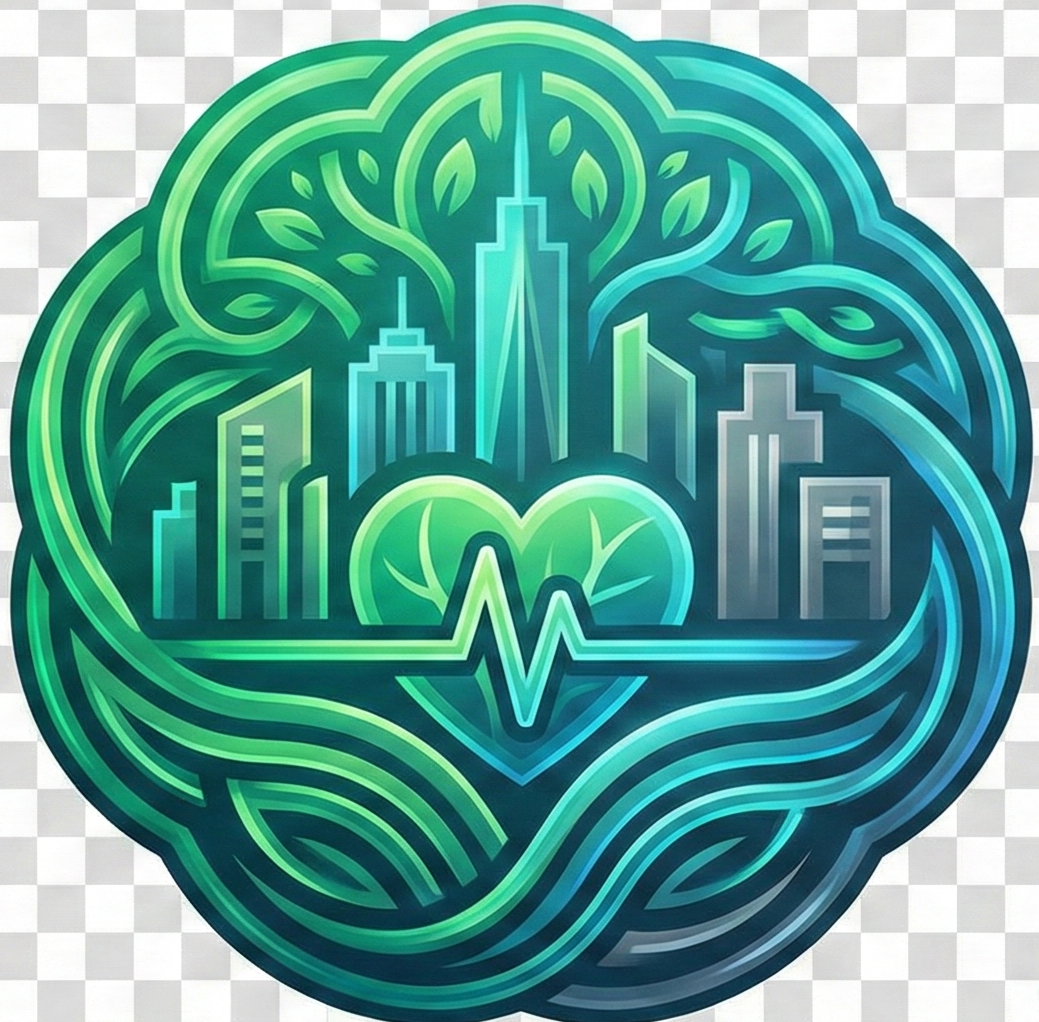
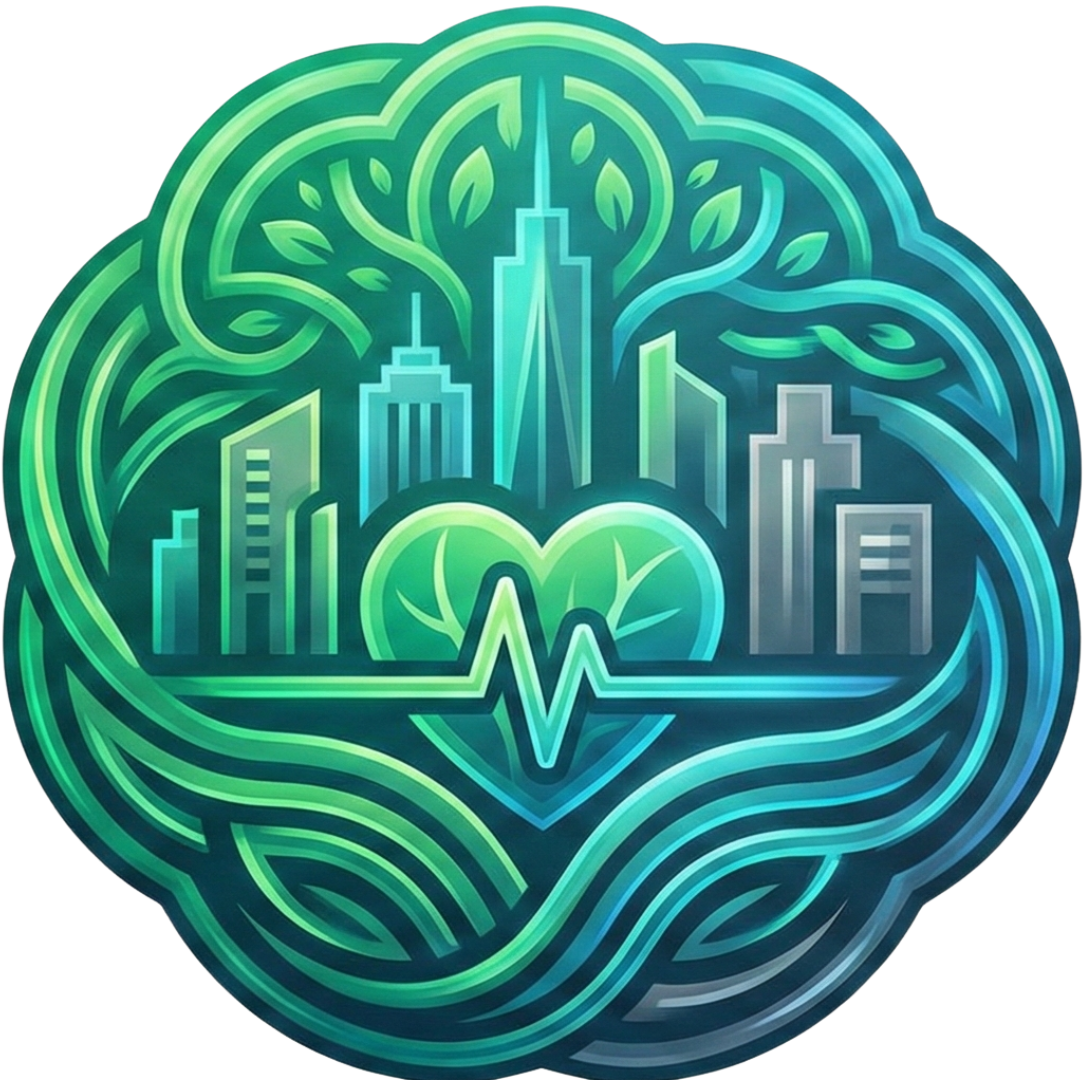
Improvements

diff --git a/frontend/index.html b/frontend/index.html
@@ -2,21 +2,19 @@
 <html lang="en">
   <head>
     <meta charset="UTF-8" />
+    <link rel="icon" type="image/png" href="/image.png" />
     <meta name="viewport" content="width=device-width, initial-scale=1.0" />
-    <!-- TODO: Set the document title to the name of your application -->
-    <title>Lovable App</title>
-    <meta name="description" content="Lovable Generated Project" />
-    <meta name="author" content="Lovable" />
+    <title>UCHI - Urban Canopy Health Index</title>
+    <meta name="description" content="Dynamic Urban Canopy Health Index - Vegetation Health Monitoring Platform" />
+    <meta name="author" content="UCHI Team" />
 
-    <!-- TODO: Update og:title to match your application name -->
-    <meta property="og:title" content="Lovable App" />
-    <meta property="og:description" content="Lovable Generated Project" />
+    <meta property="og:title" content="UCHI - Urban Canopy Health Index" />
+    <meta property="og:description" content="Analyzing vegetation health in urban areas using satellite imagery" />
     <meta property="og:type" content="website" />
-    <meta property="og:image" content="https://lovable.dev/opengraph-image-p98pqg.png" />
+    <meta property="og:image" content="/image.png" />
 
     <meta name="twitter:card" content="summary_large_image" />
-    <meta name="twitter:site" content="@Lovable" />
-    <meta name="twitter:image" content="https://lovable.dev/opengraph-image-p98pqg.png" />
+    <meta name="twitter:image" content="/image.png" />
   </head>
 
   <body>

diff --git a/frontend/src/components/layout/Header.tsx b/frontend/src/components/layout/Header.tsx
@@ -1,5 +1,5 @@
 import { Link, useLocation } from 'react-router-dom';
-import { Leaf, Home, MapPin, Upload, BarChart3, GitCompare } from 'lucide-react';
+import { Home, MapPin, Upload, BarChart3, GitCompare } from 'lucide-react';
 import { cn } from '@/lib/utils';
 
 const navItems = [
@@ -17,8 +17,8 @@ const Header = () => {
     <header className="sticky top-0 z-50 w-full border-b border-border bg-card/80 backdrop-blur-md">
       <div className="container flex h-16 items-center justify-between">
         <Link to="/" className="flex items-center gap-2 group">
-          <div className="flex h-10 w-10 items-center justify-center rounded-xl bg-primary text-primary-foreground transition-transform group-hover:scale-105">
-            <Leaf className="h-5 w-5" />
+          <div className="flex h-10 w-10 items-center justify-center rounded-xl overflow-hidden transition-transform group-hover:scale-105">
+            <img src="/image.png" alt="UCHI Logo" className="h-full w-full object-cover" />
           </div>
           <div className="hidden sm:block">
             <h1 className="font-display text-lg font-semibold text-foreground">

diff --git a/frontend/src/components/layout/Footer.tsx b/frontend/src/components/layout/Footer.tsx
@@ -1,4 +1,4 @@
-import { Leaf, Github, ExternalLink } from 'lucide-react';
+import { Github, ExternalLink } from 'lucide-react';
 
 const Footer = () => {
   return (
@@ -6,8 +6,8 @@ const Footer = () => {
       <div className="container">
         <div className="flex flex-col md:flex-row items-center justify-between gap-4">
           <div className="flex items-center gap-2">
-            <div className="flex h-8 w-8 items-center justify-center rounded-lg bg-primary/10">
-              <Leaf className="h-4 w-4 text-primary" />
+            <div className="flex h-8 w-8 items-center justify-center rounded-lg overflow-hidden">
+              <img src="/image.png" alt="UCHI Logo" className="h-full w-full object-cover" />
             </div>
             <div>
               <p className="text-sm font-medium text-foreground">

diff --git a/frontend/src/pages/Index.tsx b/frontend/src/pages/Index.tsx
@@ -2,7 +2,6 @@ import { Link } from 'react-router-dom';
 import { Button } from '@/components/ui/button';
 import { Card, CardContent, CardDescription, CardHeader, CardTitle } from '@/components/ui/card';
 import { 
-  Leaf, 
   MapPin, 
   Building2, 
   ArrowRight, 
@@ -62,7 +61,7 @@ const Index = () => {
         <div className="container relative">
           <div className="max-w-3xl mx-auto text-center">
             <div className="inline-flex items-center gap-2 px-4 py-2 rounded-full bg-primary/10 text-primary text-sm font-medium mb-6 animate-fade-in">
-              <Leaf className="h-4 w-4" />
+              <img src="/image.png" alt="UCHI" className="h-4 w-4 rounded" />
               Environmental Intelligence Platform
             </div>
             
